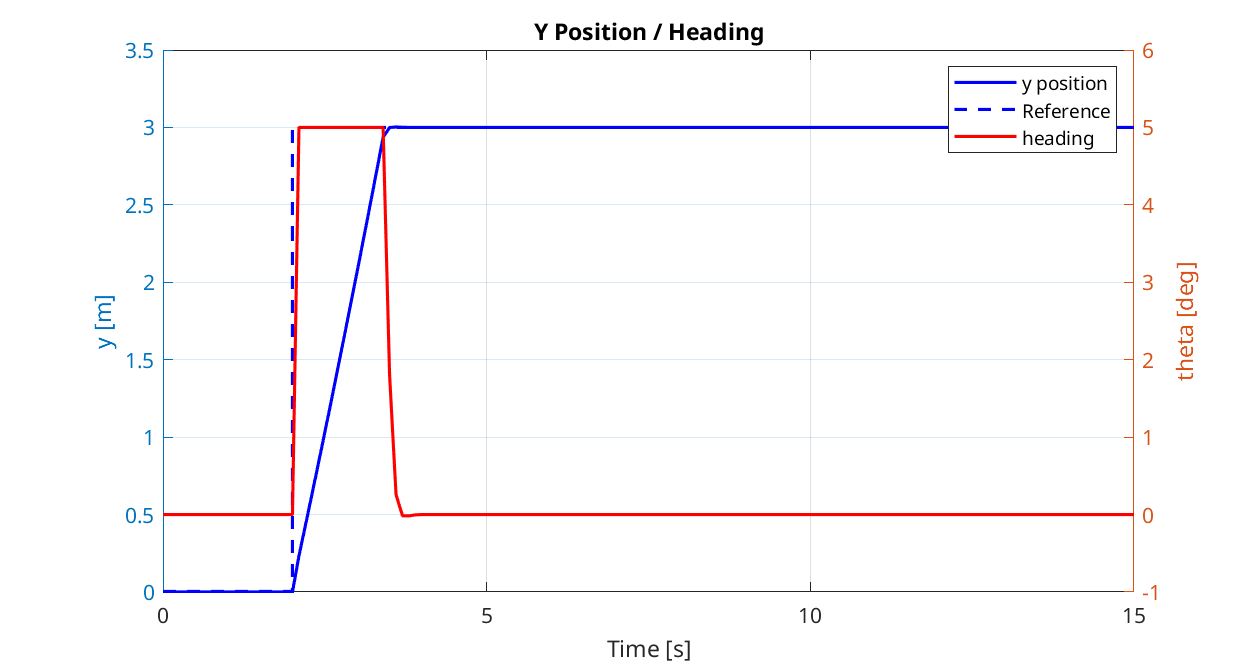
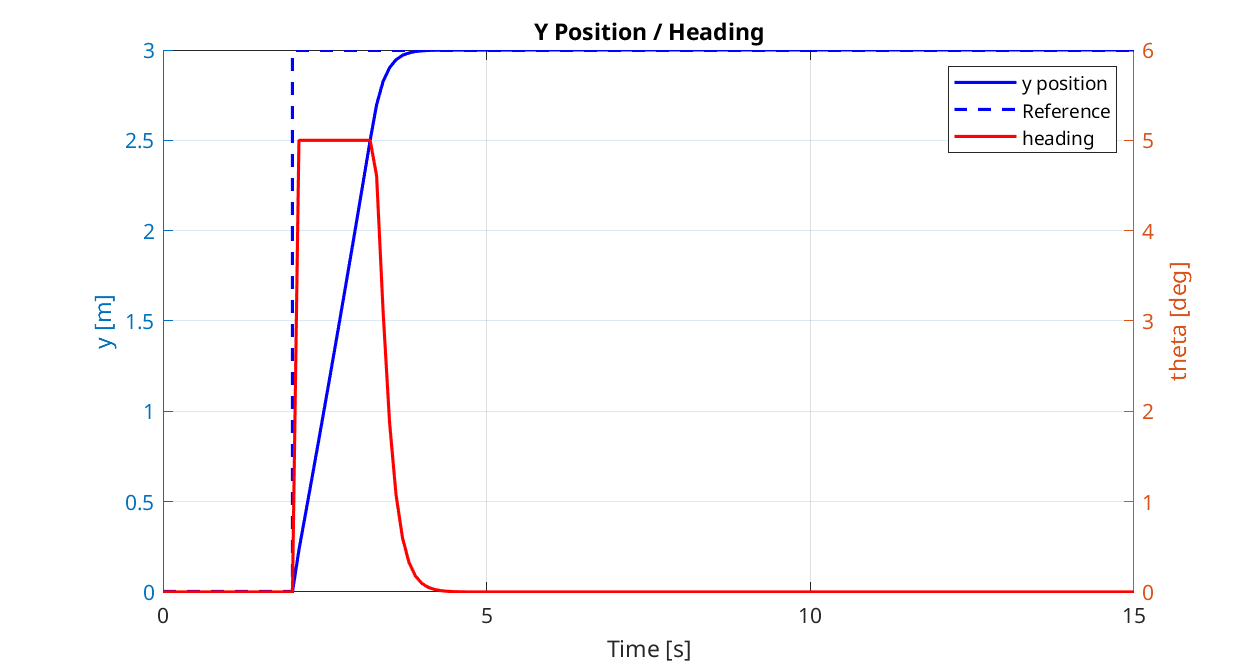
Deliverable 6 finished

diff --git a/Deliverable_6/Deliverable_6_1/NmpcControl.m b/Deliverable_6/Deliverable_6_1/NmpcControl.m
@@ -56,9 +56,8 @@ classdef NmpcControl < handle
             % Define your problem using the opti object created above
 
             % Cost function weights
-            Q_track = diag([0, 20, 5, 50]);    % State tracking weights:
+            Q_track = diag([0, 1, 20, 8]);    % State tracking weights:
                                               % [x position (unused), y position, heading angle, velocity]
-                                              % Higher weight (50) on velocity tracking
             R_track = diag([10, 10]);         % Input cost weights for smoother control:
                                               % [steering angle, throttle]
             Q_term = Q_track/2;               % Terminal cost weight (typically smaller than tracking cost)

diff --git a/Deliverable_6/Deliverable_6_2/NmpcControl_overtake.m b/Deliverable_6/Deliverable_6_2/NmpcControl_overtake.m
@@ -58,7 +58,6 @@ classdef NmpcControl_overtake < handle
             % Cost function weights
             Q_track = diag([0, 1, 20, 8]);    % State tracking weights:
                                               % [x position (unused), y position, heading angle, velocity]
-                                              % Higher weight (30) on velocity tracking
             R_track = diag([10, 10]);         % Input cost weights for smoother control:
                                               % [steering angle, throttle]
             Q_term = Q_track/2;               % Terminal cost weight

diff --git a/Deliverable_6/Deliverable_6_2/non_linear_mpc_overtake.m b/Deliverable_6/Deliverable_6_2/non_linear_mpc_overtake.m
@@ -30,7 +30,7 @@ params.otherCar.x0 = x0_other;
 params.otherCar.u = car.u_const(80/3.6);
 
 result = simulate(params);
-%visualization(car, result);
+visualization(car, result);
 
-[f1, f2, f3, f4, f5, f6] = plot_results(result);
+%[f1, f2, f3, f4, f5, f6] = plot_results(result);
 
